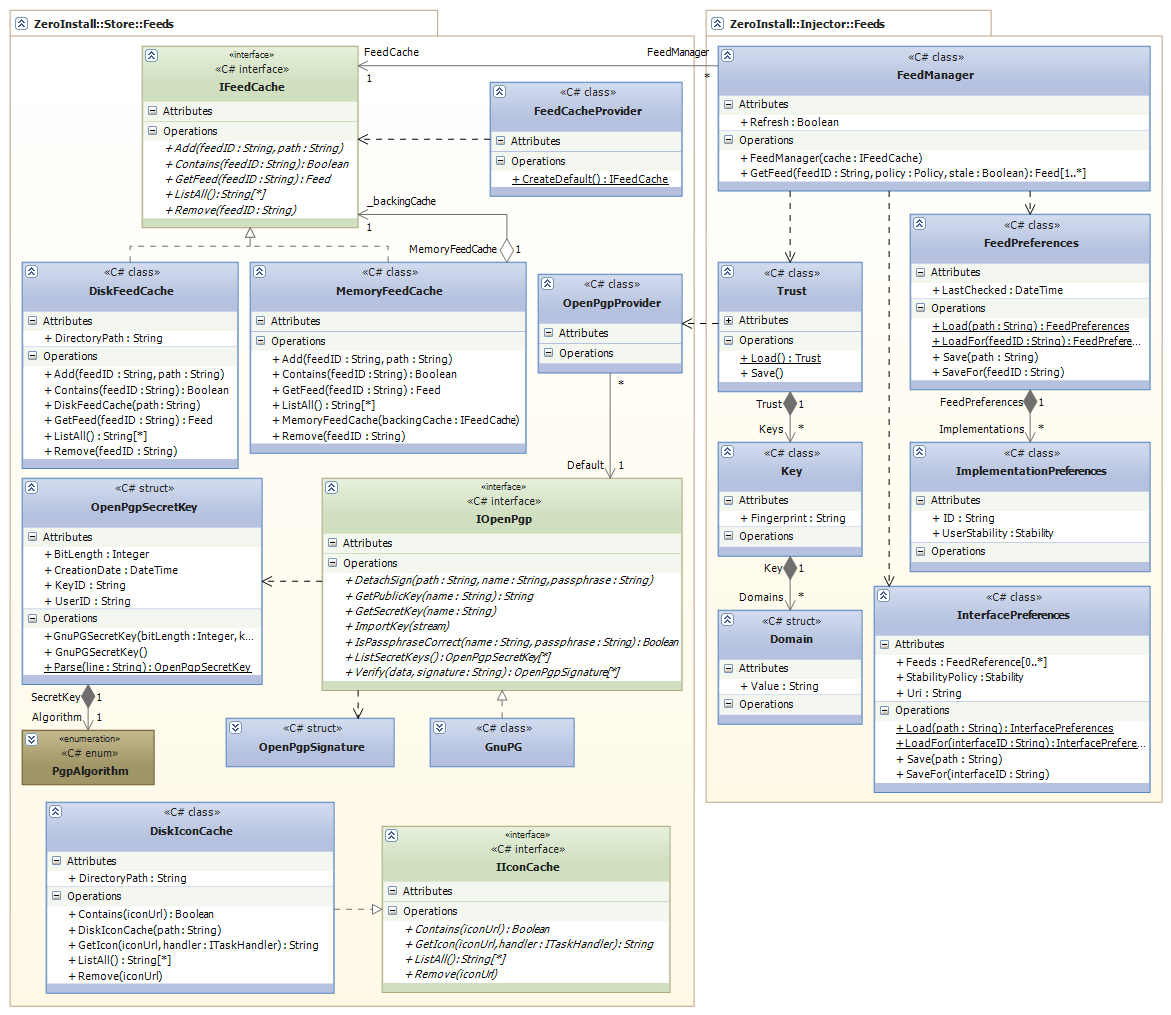
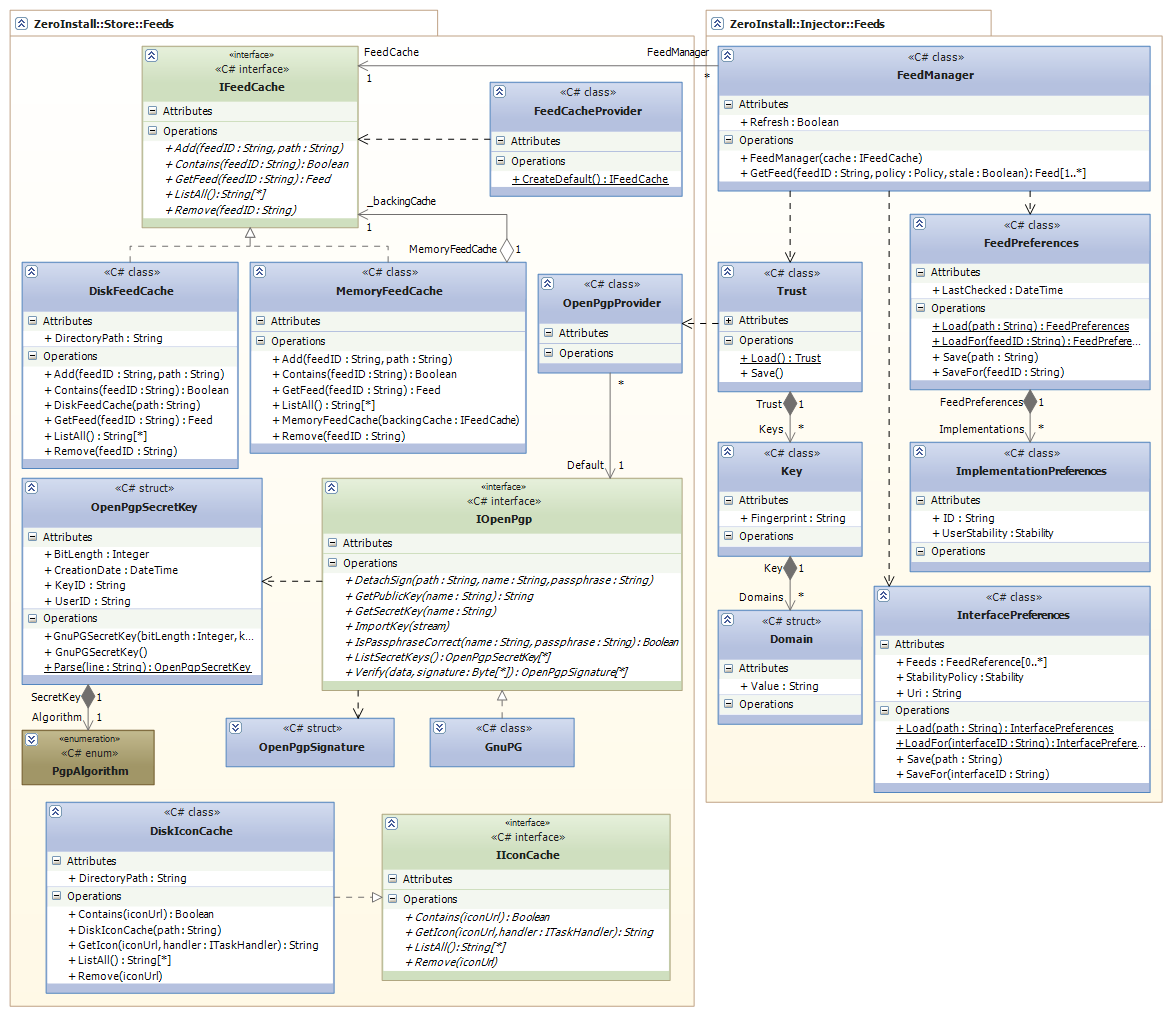
Pass signature data to IOpenPgp.Verify() as a byte array

Changed region(s): [[0.3074, 0.7941, 0.5841, 0.9773], [0.3997, 0.6414, 0.5534, 0.6719]]

diff --git a/src/Store/Feeds/GnuPG.cs b/src/Store/Feeds/GnuPG.cs
@@ -152,11 +152,11 @@ namespace ZeroInstall.Store.Feeds
 
         #region Verify
         /// <inheritdoc/>
-        public OpenPgpSignature[] Verify(Stream data, string signature)
+        public OpenPgpSignature[] Verify(Stream data, byte[] signature)
         {
             #region Sanity checks
-            if (string.IsNullOrEmpty(signature)) throw new ArgumentNullException("signature");
             if (data == null) throw new ArgumentNullException("data");
+            if (signature == null) throw new ArgumentNullException("signature");
             #endregion
 
             // ToDo: Implement

diff --git a/src/Store/Feeds/IOpenPgp.cs b/src/Store/Feeds/IOpenPgp.cs
@@ -90,6 +90,6 @@ namespace ZeroInstall.Store.Feeds
         /// <returns>A list of signatures found, both valid and invalid.</returns>
         /// <exception cref="IOException">Thrown if the OpenPGP implementation could not be launched.</exception>
         /// <exception cref="UnhandledErrorsException">Thrown if the OpenPGP implementation reported a problem.</exception>
-        OpenPgpSignature[] Verify(Stream data, string signature);
+        OpenPgpSignature[] Verify(Stream data, byte[] signature);
     }
 }

diff --git a/src/Store/Feeds/FeedUtils.cs b/src/Store/Feeds/FeedUtils.cs
@@ -70,7 +70,7 @@ namespace ZeroInstall.Store.Feeds
         {
             // ToDo: Split data into pureData and signature
             Stream pureData = null;
-            string signature = null;
+            byte[] signature = null;
 
             return openPgp.Verify(pureData, signature);
         }
